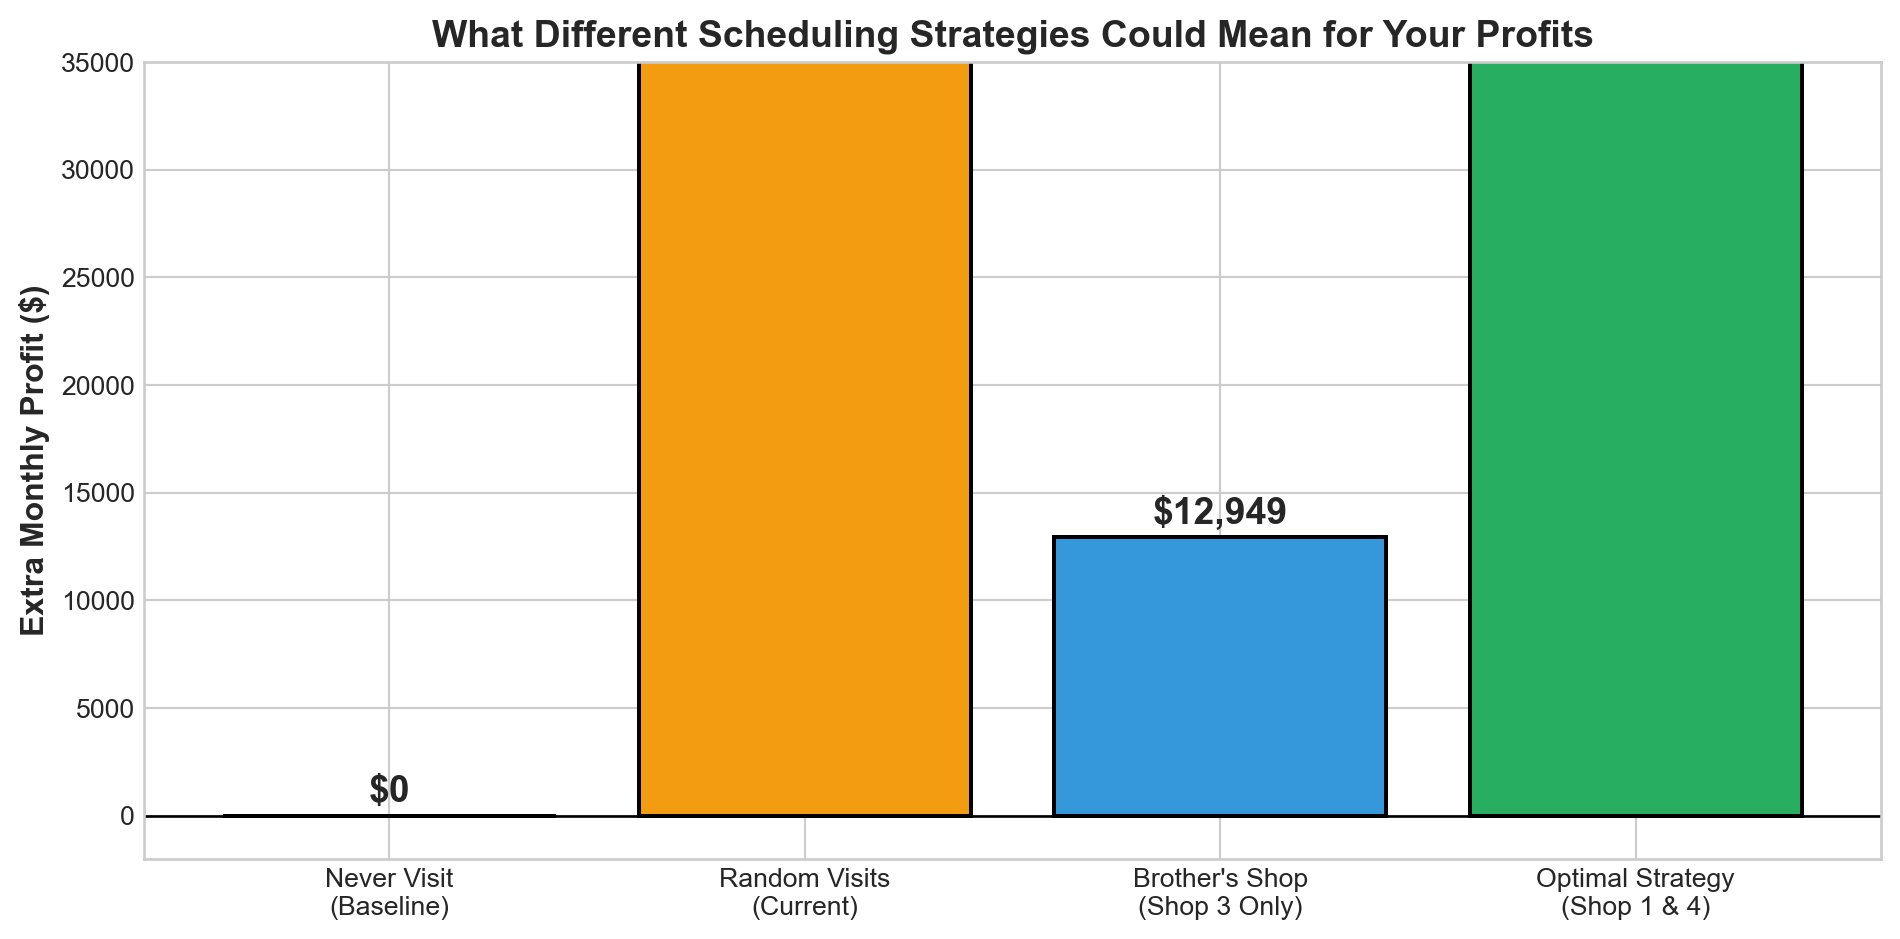
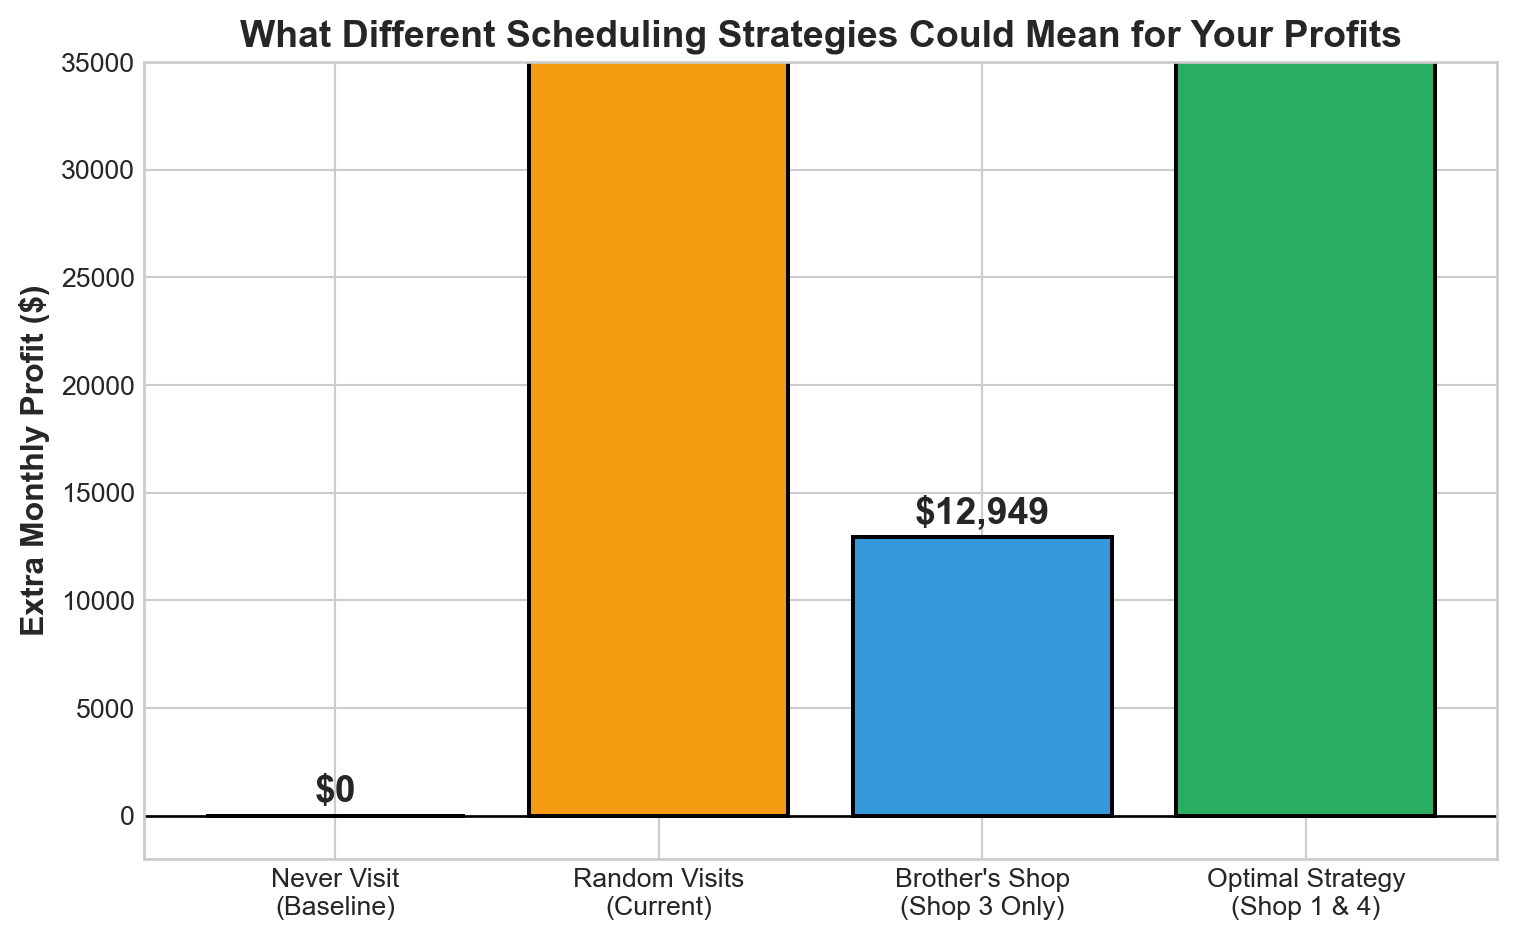
Render index.qmd

diff --git a/index.html b/index.html
@@ -6,7 +6,7 @@
 
 <meta name="viewport" content="width=device-width, initial-scale=1.0, user-scalable=yes">
 
-<meta name="author" content="Your Business Analytics Team">
+<meta name="author" content="Abbonizio Business Analytics Consulting LLC">
 <meta name="dcterms.date" content="2025-12-02">
 
 <title>Patrick’s Auto Shop Productivity Report</title>
@@ -75,7 +75,7 @@ ul.task-list li input[type="checkbox"] {
     <div>
     <div class="quarto-title-meta-heading">Author</div>
     <div class="quarto-title-meta-contents">
-             <p>Your Business Analytics Team </p>
+             <p>Abbonizio Business Analytics Consulting LLC </p>
           </div>
   </div>
     
@@ -103,7 +103,7 @@ ul.task-list li input[type="checkbox"] {
 <section id="what-the-data-shows" class="level2">
 <h2 class="anchored" data-anchor-id="what-the-data-shows">What the Data Shows</h2>
 <p>We analyzed 250 days of productivity data across your 5 shops. Here’s every single day plotted—you can see the pattern clearly:</p>
-<div id="b04633f2" class="cell" data-fig-height="6" data-fig-width="8" data-execution_count="2">
+<div id="dae95a84" class="cell" data-fig-height="6" data-fig-width="8" data-execution_count="2">
 <div class="cell-output cell-output-display">
 <div class="quarto-figure quarto-figure-center">
 <figure class="figure">
@@ -119,7 +119,7 @@ ul.task-list li input[type="checkbox"] {
 <section id="d-view-shop-performance-landscape" class="level2">
 <h2 class="anchored" data-anchor-id="d-view-shop-performance-landscape">3D View: Shop Performance Landscape</h2>
 <p>Here’s an interactive 3D perspective showing all three dimensions at once—Shop ID, your presence status, and cars fixed:</p>
-<div id="e8e5f7d9" class="cell" data-fig-height="8" data-fig-width="10" data-execution_count="3">
+<div id="b6567ea6" class="cell" data-fig-height="8" data-fig-width="10" data-execution_count="3">
 <div class="cell-output cell-output-display">
 <div class="quarto-figure quarto-figure-center">
 <figure class="figure">
@@ -135,7 +135,7 @@ ul.task-list li input[type="checkbox"] {
 <section id="the-boss-boost-effect" class="level2">
 <h2 class="anchored" data-anchor-id="the-boss-boost-effect">The “Boss Boost” Effect</h2>
 <p>Here’s the real question: <strong>How many extra cars get fixed when you’re at each shop?</strong></p>
-<div id="b17d2f71" class="cell" data-fig-height="5" data-fig-width="9" data-execution_count="4">
+<div id="82d16b85" class="cell" data-fig-height="5" data-fig-width="9" data-execution_count="4">
 <div class="cell-output cell-output-display">
 <div class="quarto-figure quarto-figure-center">
 <figure class="figure">
@@ -192,7 +192,7 @@ ul.task-list li input[type="checkbox"] {
 <section id="how-confident-can-you-be" class="level2">
 <h2 class="anchored" data-anchor-id="how-confident-can-you-be">How Confident Can You Be?</h2>
 <p><strong>The honest truth:</strong> We only have 250 days of data, and you weren’t at every shop equally. Here’s what that means:</p>
-<div id="08f88e1a" class="cell" data-fig-height="4" data-fig-width="9" data-execution_count="5">
+<div id="0a1f0f5a" class="cell" data-fig-height="4" data-fig-width="9" data-execution_count="5">
 <div class="cell-output cell-output-display">
 <div class="quarto-figure quarto-figure-center">
 <figure class="figure">
@@ -219,11 +219,11 @@ ul.task-list li input[type="checkbox"] {
 <section id="the-money-question" class="level2">
 <h2 class="anchored" data-anchor-id="the-money-question">The Money Question 💰</h2>
 <p>Let’s say each car fixed earns you <strong>$200 in profit</strong>. Here’s what different scheduling strategies could mean for your wallet:</p>
-<div id="2c48b976" class="cell" data-fig-height="5" data-fig-width="10" data-execution_count="6">
+<div id="d5a1a173" class="cell" data-fig-height="5" data-fig-width="8" data-execution_count="6">
 <div class="cell-output cell-output-display">
 <div class="quarto-figure quarto-figure-center">
 <figure class="figure">
-<p><img src="index_files/figure-html/cell-7-output-1.png" width="950" height="470" class="figure-img"></p>
+<p><img src="index_files/figure-html/cell-7-output-1.png" width="758" height="470" class="figure-img"></p>
 <figcaption>Projected monthly profit under different scheduling strategies</figcaption>
 </figure>
 </div>
@@ -304,11 +304,11 @@ ul.task-list li input[type="checkbox"] {
 </section>
 <section id="one-final-chart-your-projected-year" class="level3">
 <h3 class="anchored" data-anchor-id="one-final-chart-your-projected-year">One Final Chart: Your Projected Year</h3>
-<div id="caaa3fab" class="cell" data-fig-height="5" data-fig-width="10" data-execution_count="7">
+<div id="0cf64f2b" class="cell" data-fig-height="5" data-fig-width="8" data-execution_count="7">
 <div class="cell-output cell-output-display">
 <div class="quarto-figure quarto-figure-center">
 <figure class="figure">
-<p><img src="index_files/figure-html/cell-8-output-1.png" width="950" height="470" class="figure-img"></p>
+<p><img src="index_files/figure-html/cell-8-output-1.png" width="758" height="470" class="figure-img"></p>
 <figcaption>Projected annual impact of following the optimal strategy</figcaption>
 </figure>
 </div>
